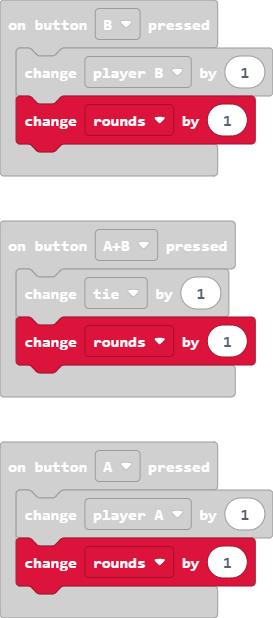
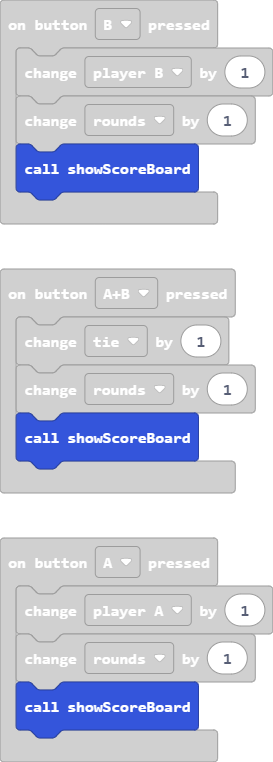
Update main.blocks, main.ts

diff --git a/main.ts b/main.ts
@@ -1,6 +1,7 @@
 input.onButtonPressed(Button.A, function () {
     player_A += 1
     rounds += 1
+    showScoreBoard()
 })
 function showScoreBoard () {
     OLED.clear()
@@ -15,10 +16,12 @@ function showScoreBoard () {
 input.onButtonPressed(Button.AB, function () {
     tie += 1
     rounds += 1
+    showScoreBoard()
 })
 input.onButtonPressed(Button.B, function () {
     player_B += 1
     rounds += 1
+    showScoreBoard()
 })
 input.onGesture(Gesture.Shake, function () {
     reset()
